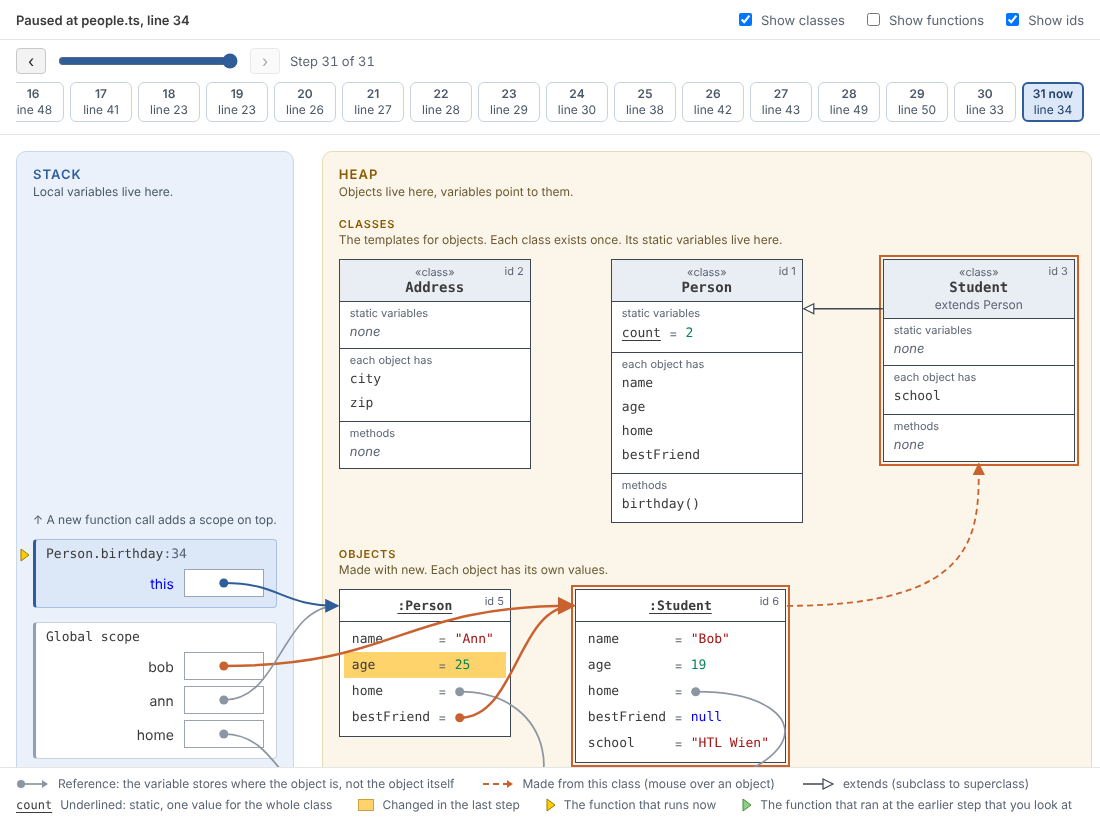
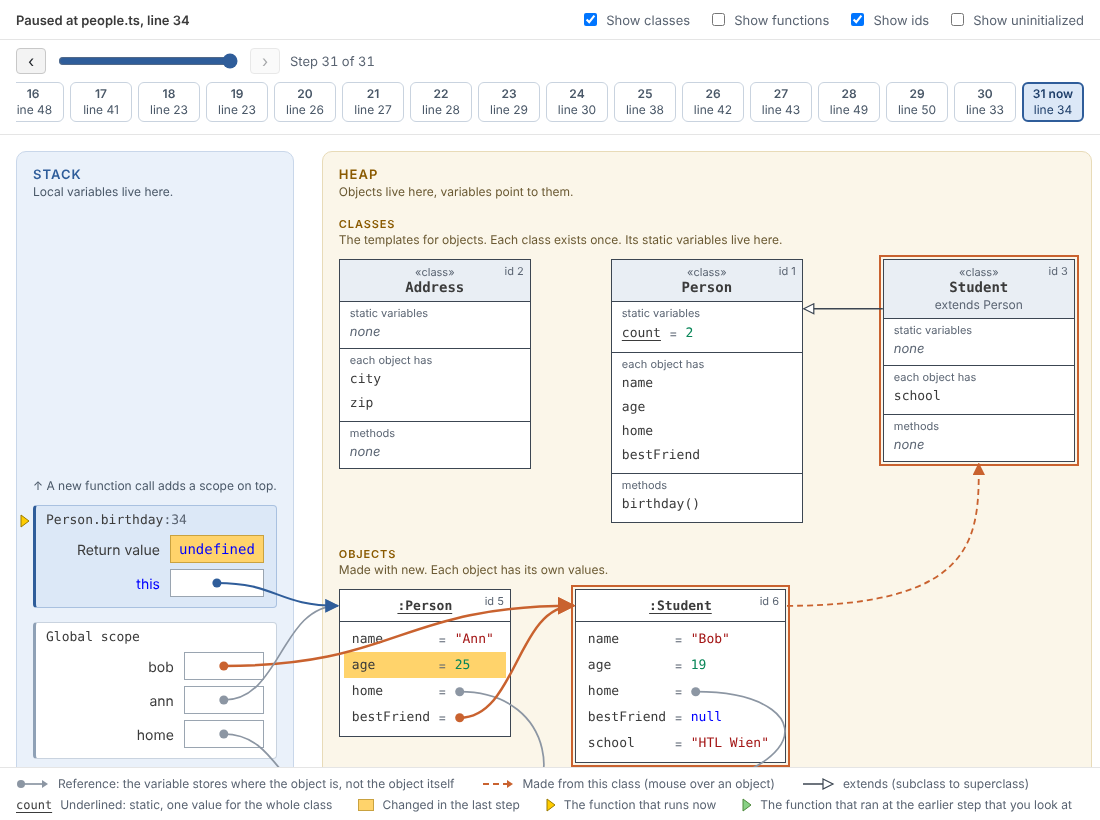
Render test: bill is not drawn before its line has run
At the step in lineTotal, the const bill of the Global scope is
uninitialized, and the switch "Show uninitialized" is off by default,
so the Global scope shows only cart. The screenshots of the user guide
are new: they show the fourth switch, no uninitialized variables, and
the return value of lineTotal.

Claude-Session: https://claude.ai/code/session_016WuZjZWwBCpBmb8F1Wj3ab

Changed region(s): [[0.0, 0.5793, 0.2782, 0.7317], [0.6491, 0.0, 0.9891, 0.0305], [0.5255, 0.0, 0.6182, 0.0305]]

diff --git a/test/render/screenshots.ts b/test/render/screenshots.ts
@@ -191,7 +191,8 @@ async function main(): Promise<void> {
       await shot('linked-list');
 
       // 5. Call stack: the program is in lineTotal, so four scopes are on the stack. The variables of each scope
-      //    build bottom up: cart, the first variable of the Global scope, is at the bottom.
+      //    build bottom up: cart, the first variable of the Global scope, is at the bottom. bill is not drawn: its
+      //    line has not run yet, and the switch "Show uninitialized" is off by default.
       const inLineTotal = lastIndex(calls, (s) => s.frames.at(-1)?.name === 'lineTotal');
       // Four scopes and three classes need a taller panel.
       await page.setViewportSize({ width: 1100, height: 1240 });
@@ -202,7 +203,7 @@ async function main(): Promise<void> {
       const callClasses = await page.$$eval('.class-box .class-name', (els) => els.map((e) => e.textContent).sort());
       if (callClasses.join(',') !== 'Bill,Discount,Item') throw new Error(`classes: ${callClasses.join(',')}`);
       const globals = await page.$$eval('.frame:last-child .var-name', (els) => els.map((e) => e.textContent));
-      if (globals.join(',') !== 'bill,cart') throw new Error(`variables of the Global scope: ${globals.join(',')}`);
+      if (globals.join(',') !== 'cart') throw new Error(`variables of the Global scope: ${globals.join(',')}`);
       await shot('call-stack');
 
       if (errors.length > 0) throw new Error(`page errors in ${theme}:\n${errors.join('\n')}`);
